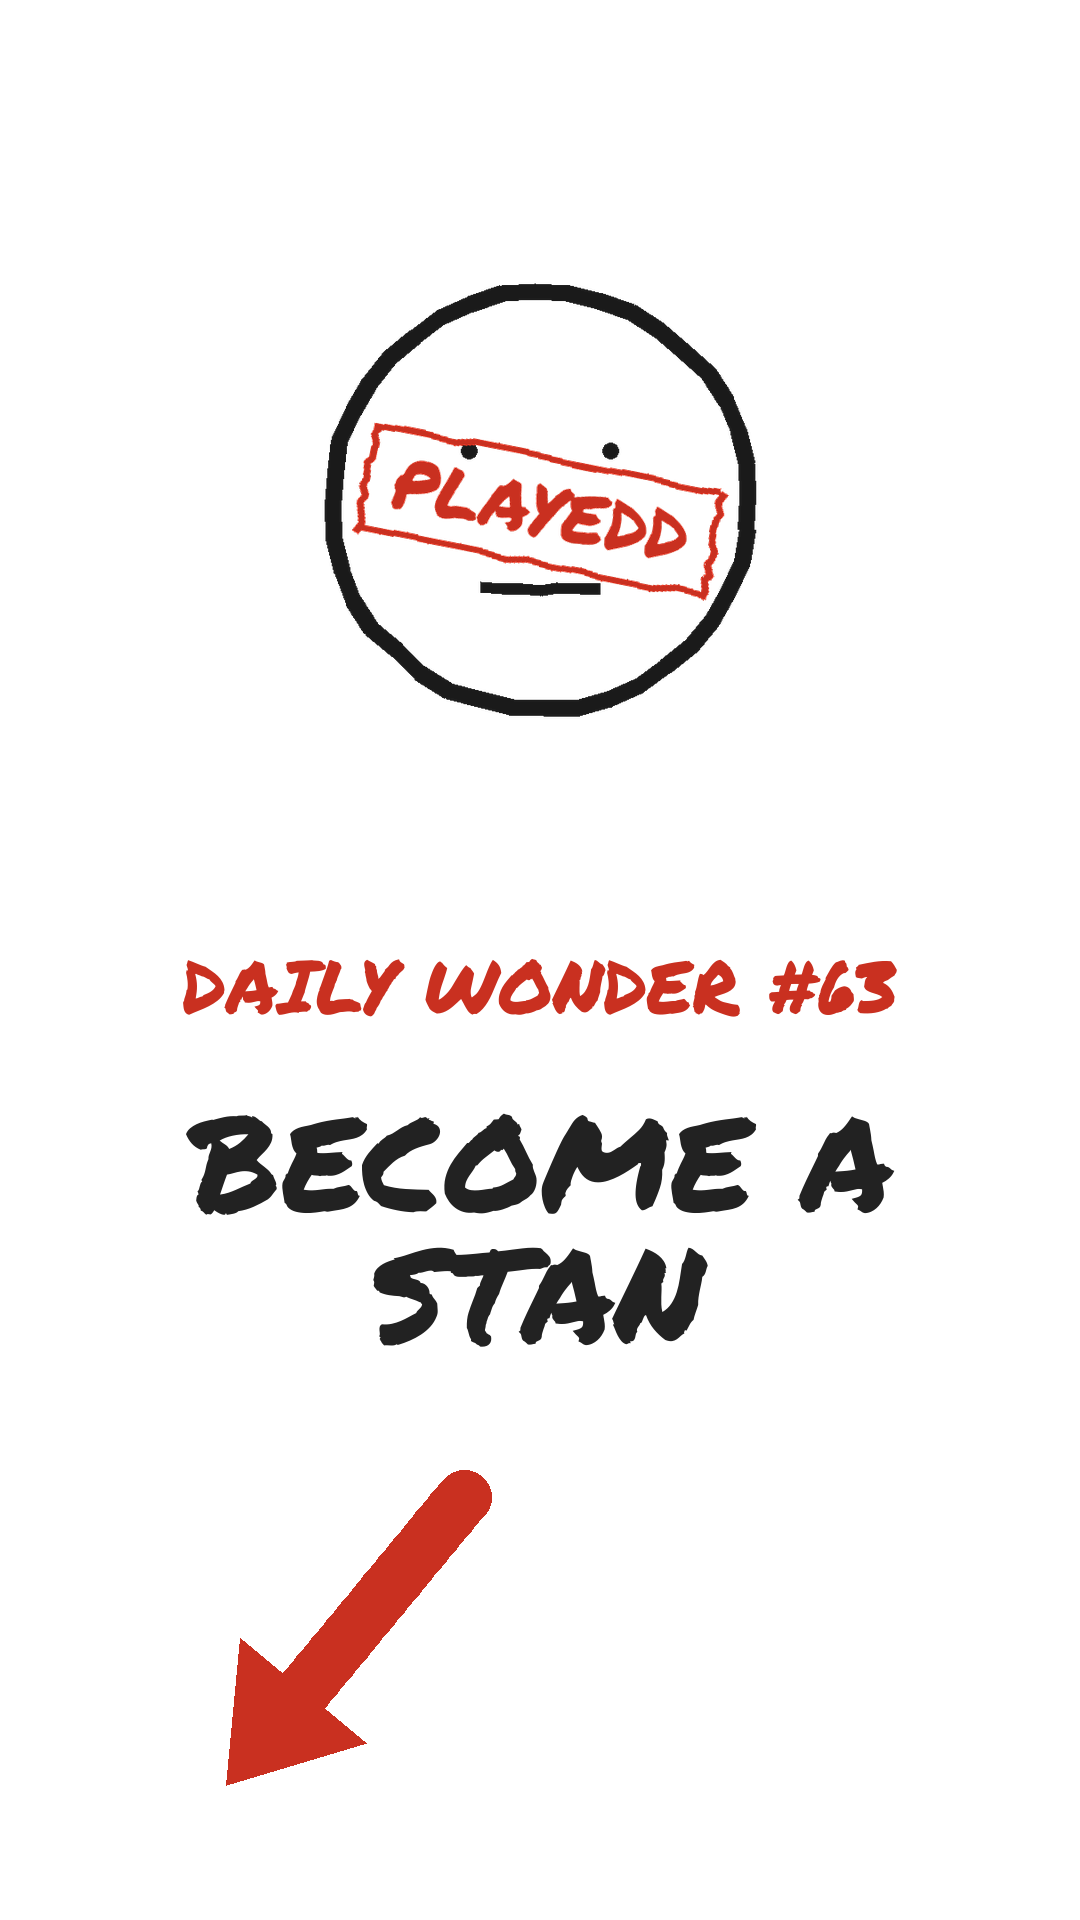
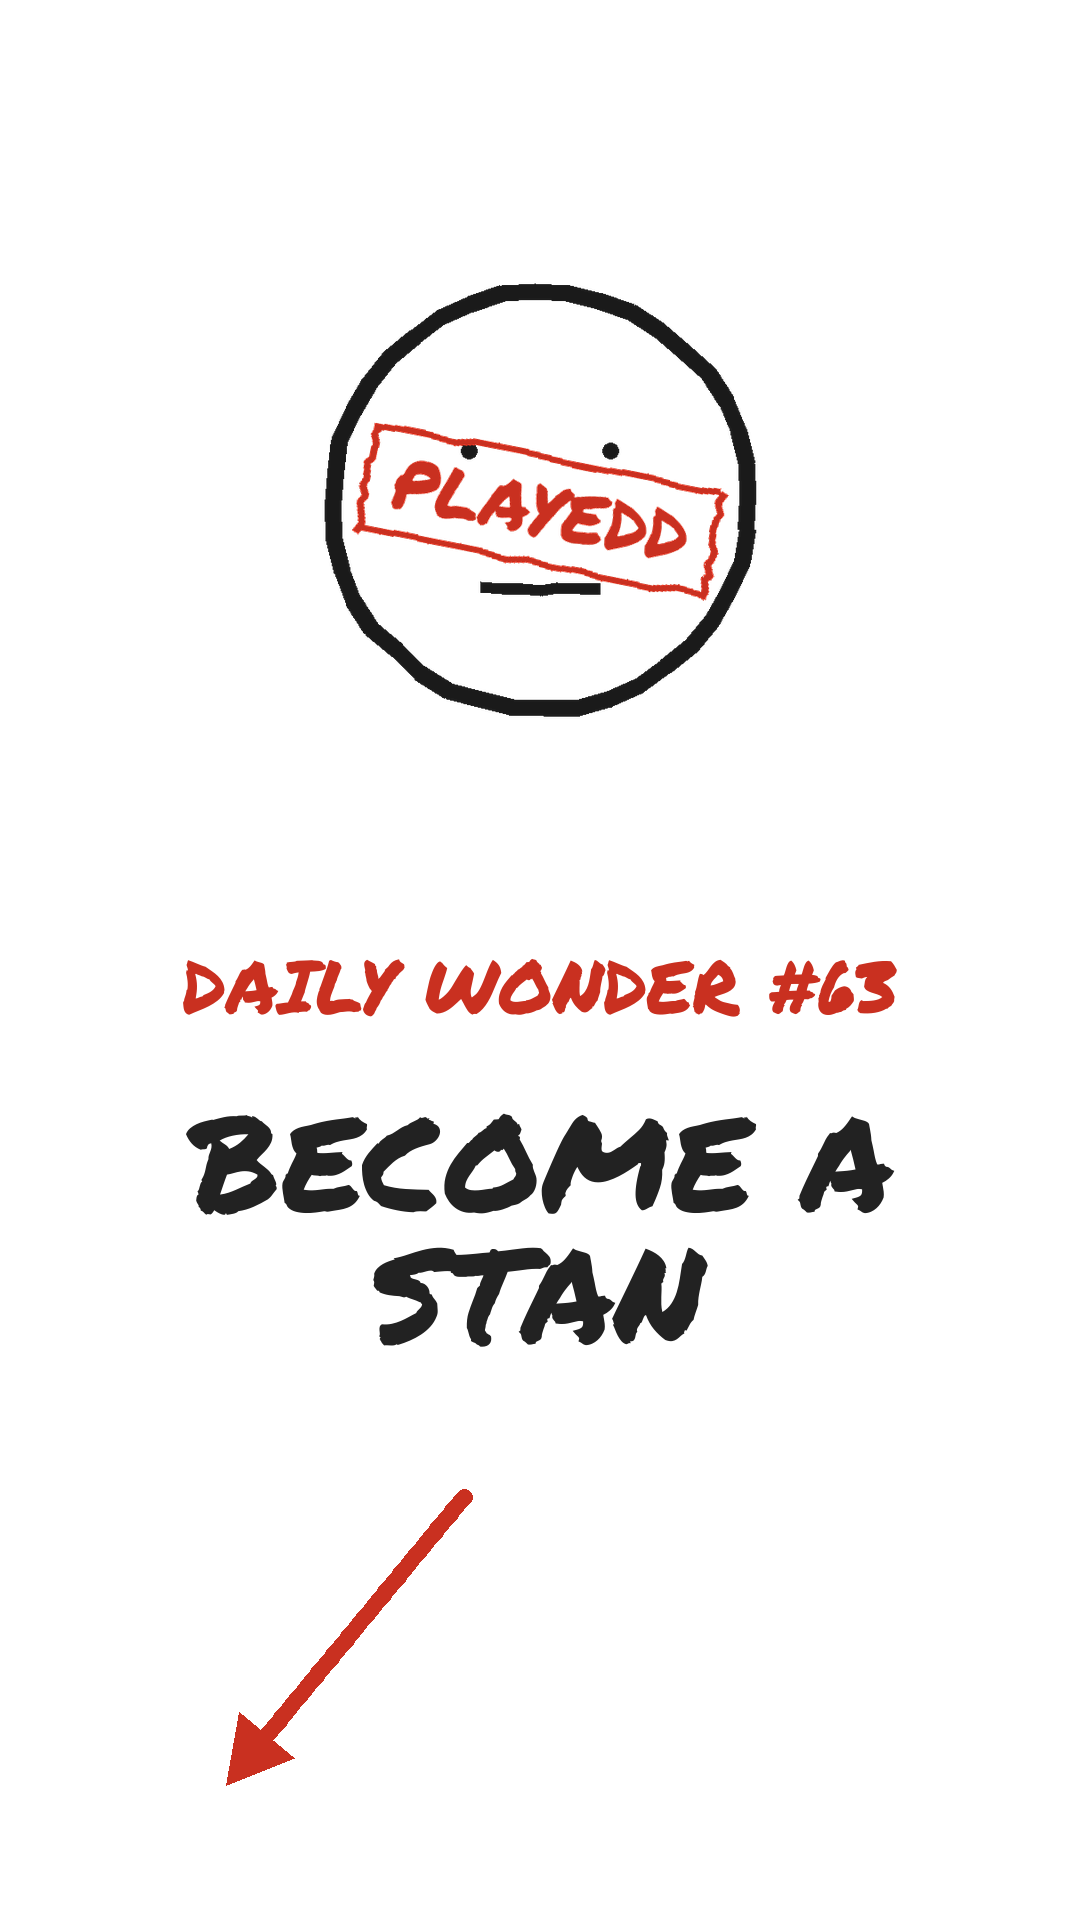
style(shorts): thin red hand-drawn arrow on CTA card

Changed region(s): [[0.2139, 0.75, 0.4583, 0.9375]]

diff --git a/pipeline/build_short.py b/pipeline/build_short.py
@@ -133,7 +133,7 @@ def make_cta_card(bg_hex: str, out_png: Path, challenge: str = "", heading: str 
     p0 = (int(W * 0.43), int(H * 0.78))   # tail (short arrow), under the heading
     pc = (int(W * 0.32), int(H * 0.855))  # control bows the curve DOWN toward the bottom-left
     p2 = (int(W * 0.21), int(H * 0.93))   # head tip: low near the bottom, ~20% from the left edge
-    width = 54
+    width = 16
     N = 64
     pts = [(
         (1 - t) ** 2 * p0[0] + 2 * (1 - t) * t * pc[0] + t * t * p2[0],
@@ -142,7 +142,7 @@ def make_cta_card(bg_hex: str, out_png: Path, challenge: str = "", heading: str 
     ax, ay = pts[-1][0] - pts[-7][0], pts[-1][1] - pts[-7][1]   # smooth tip tangent (avoids a kink)
     al = math.hypot(ax, ay) or 1.0
     ux, uy = ax / al, ay / al
-    head_len, half_w = 122, 82
+    head_len, half_w = 64, 36
     neck = (p2[0] - ux * head_len, p2[1] - uy * head_len)
     stroke = [p for p in pts if math.hypot(p[0] - p2[0], p[1] - p2[1]) > head_len] + [neck]
     d.line(stroke, fill=RED, width=width, joint="curve")